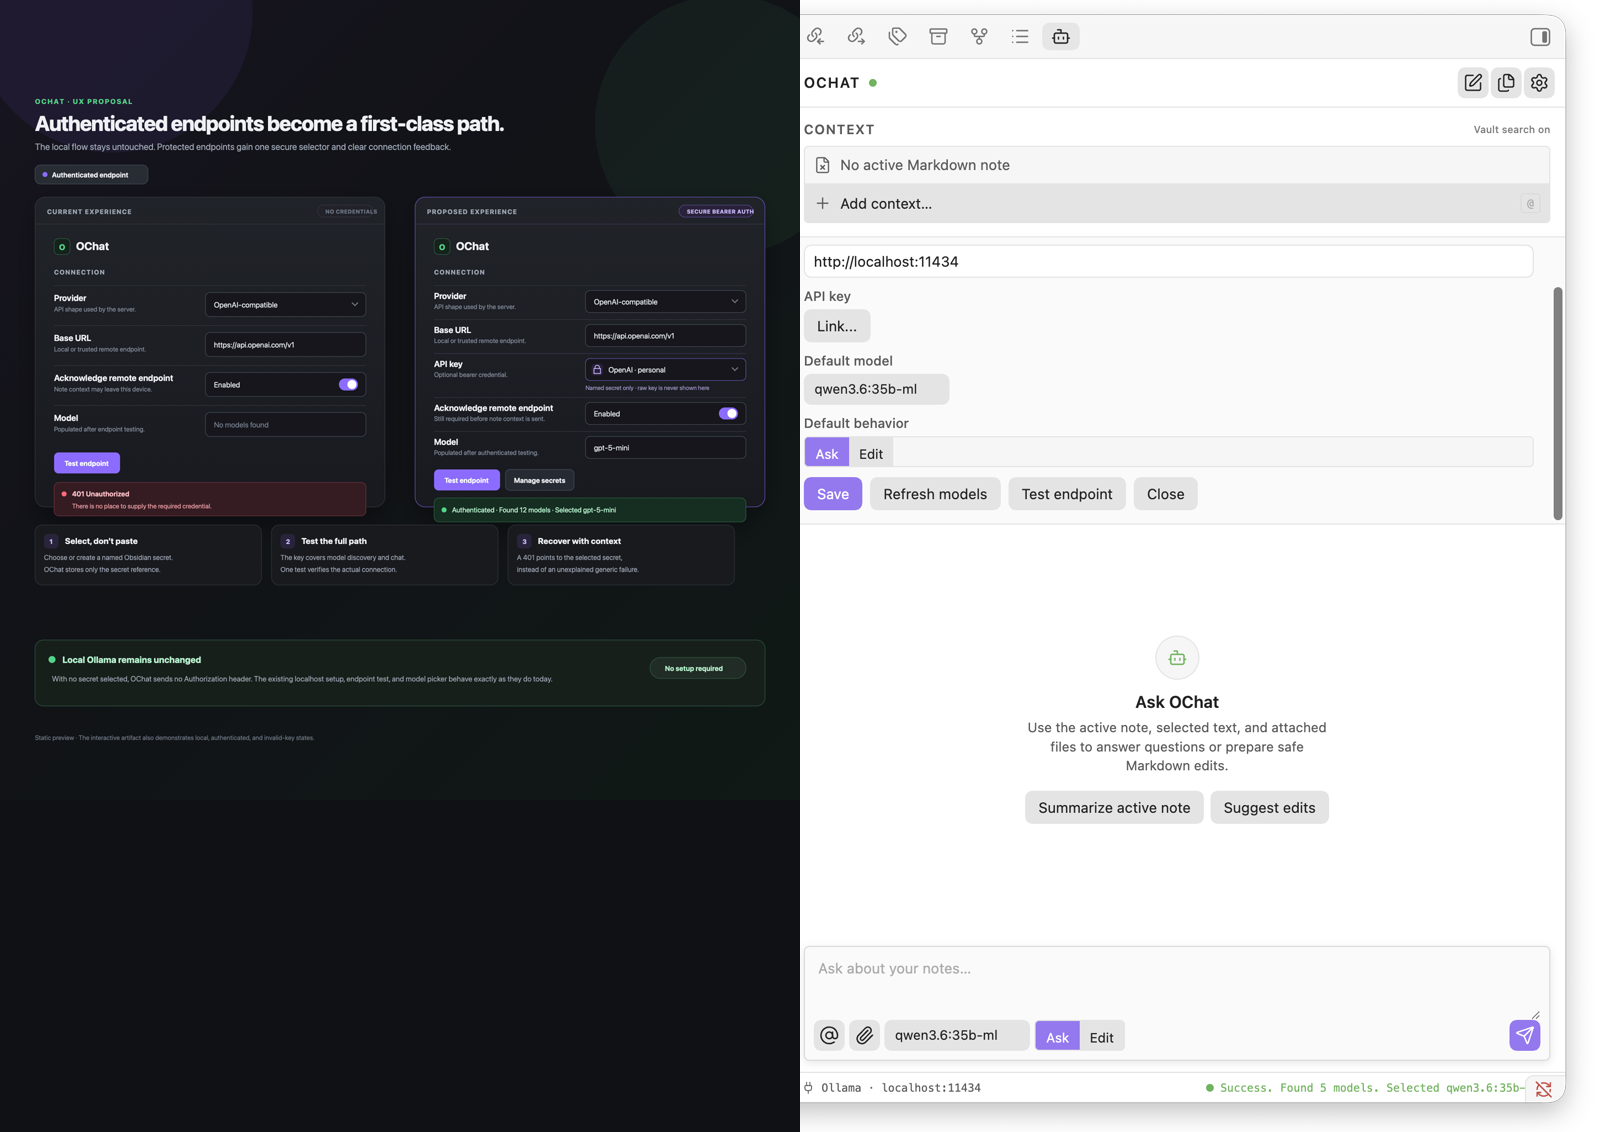
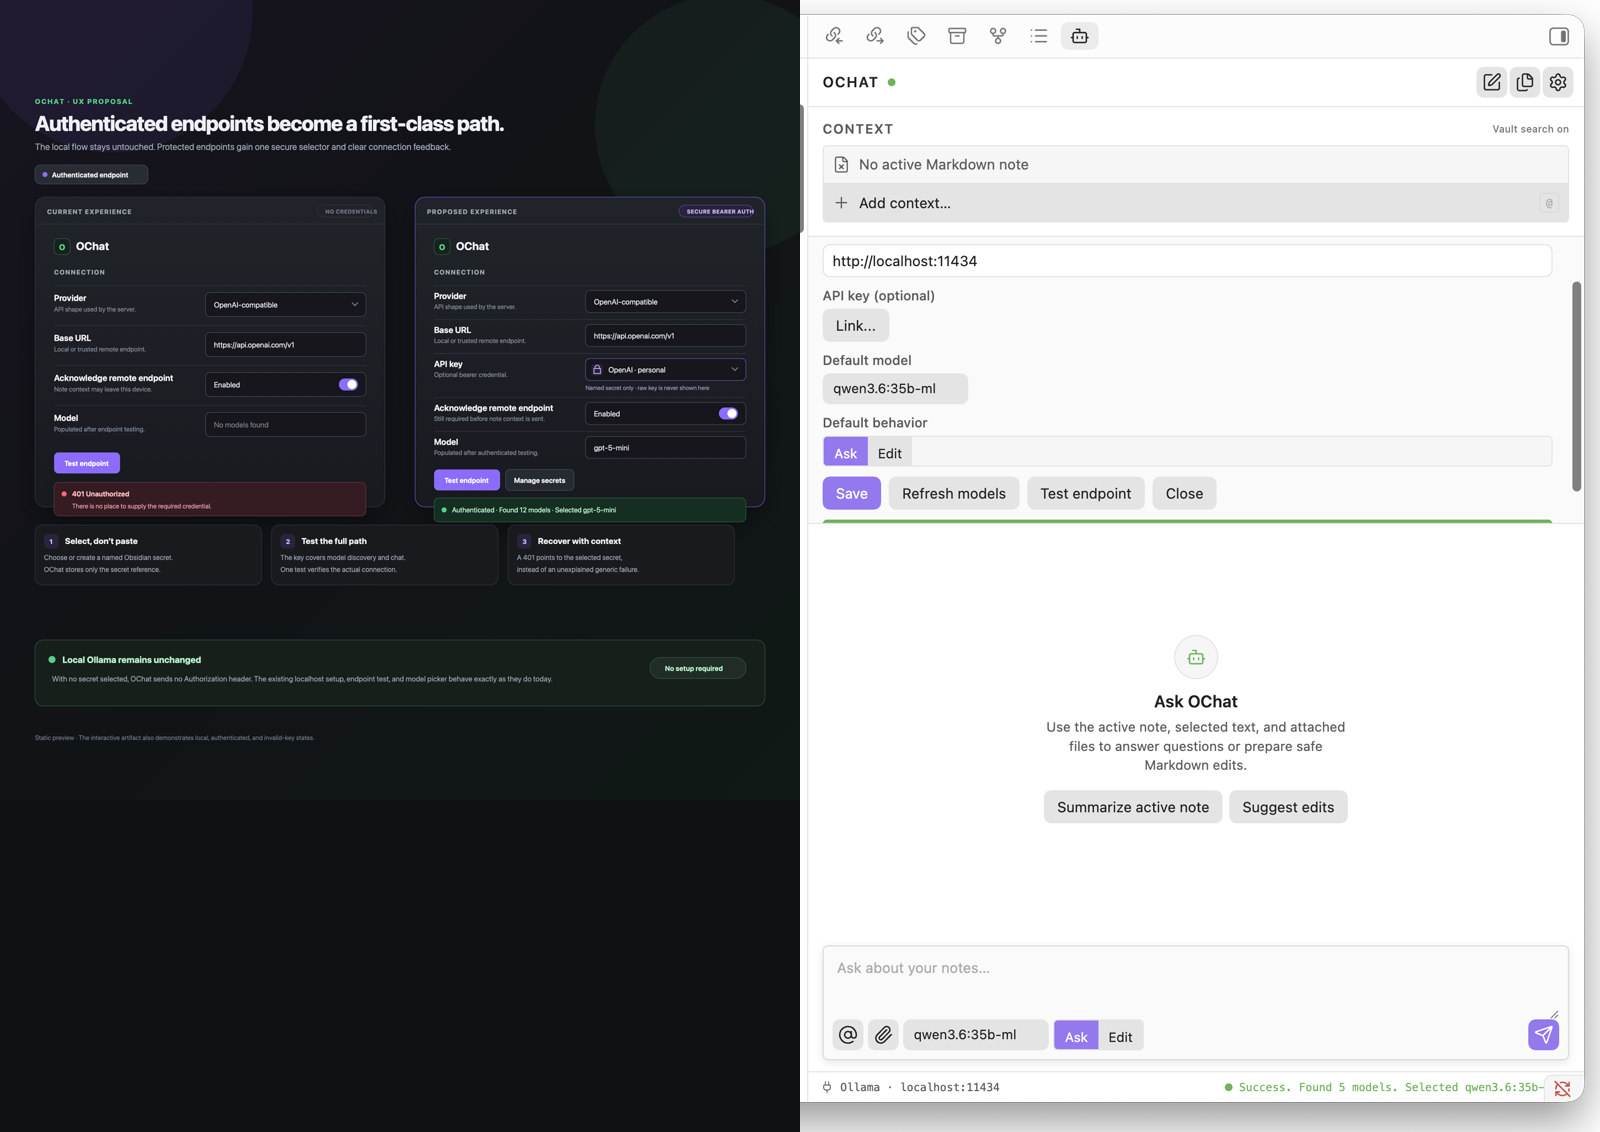
Harden bearer request handling

diff --git a/tests/provider-client.test.ts b/tests/provider-client.test.ts
@@ -1,5 +1,6 @@
 import { describe, expect, test } from 'vitest';
 
+import * as providerCommon from '../src/providers/common';
 import { createModelProvider } from '../src/providers/provider-client';
 import type { RequestDescriptor } from '../src/types';
 
@@ -52,5 +53,112 @@ describe('model provider clients', () => {
 			'http://localhost:1234/v1/chat/completions',
 			'http://localhost:1234/v1/models'
 		]);
+	});
+});
+
+describe('authenticated model provider clients', () => {
+	test('authenticates model discovery and chat for both provider protocols', async () => {
+		const seen: RequestDescriptor[] = [];
+		const execute = (request: RequestDescriptor) =>
+			providerCommon.executeAuthenticatedRequest(
+				request,
+				'provider-key',
+				() => 'test-token',
+				async (authenticatedRequest) => {
+					seen.push(authenticatedRequest);
+					if (authenticatedRequest.url.endsWith('/api/tags')) {
+						return { models: [{ name: 'llama3.2' }] };
+					}
+					if (authenticatedRequest.url.endsWith('/api/chat')) {
+						return { message: { role: 'assistant', content: 'Ollama answer' } };
+					}
+					if (authenticatedRequest.url.endsWith('/models')) {
+						return { data: [{ id: 'compatible-model' }] };
+					}
+					return { choices: [{ message: { role: 'assistant', content: 'Compatible answer' } }] };
+				}
+			);
+
+		const ollama = createModelProvider('ollama', execute);
+		await ollama.listModels('http://localhost:11434');
+		await ollama.chat({
+			baseUrl: 'http://localhost:11434',
+			model: 'llama3.2',
+			messages: [{ role: 'user', content: 'Hello' }],
+			temperature: 0.2
+		});
+
+		const compatible = createModelProvider('openai-compatible', execute);
+		await compatible.listModels('https://api.example.com/v1');
+		await compatible.chat({
+			baseUrl: 'https://api.example.com/v1',
+			model: 'compatible-model',
+			messages: [{ role: 'user', content: 'Hello' }],
+			temperature: 0.2
+		});
+
+		expect(seen.map((request) => request.headers?.Authorization)).toEqual([
+			'Bearer test-token',
+			'Bearer test-token',
+			'Bearer test-token',
+			'Bearer test-token'
+		]);
+	});
+
+	test('keeps the final request unauthenticated when no secret is selected', async () => {
+		const request: RequestDescriptor = {
+			url: 'http://192.168.1.10:11434/api/tags',
+			method: 'GET'
+		};
+
+		const sentRequest = await providerCommon.executeAuthenticatedRequest(
+			request,
+			'',
+			() => null,
+			async (authenticatedRequest) => authenticatedRequest
+		);
+
+		expect(sentRequest).toEqual(request);
+	});
+
+	test('blocks bearer credentials over non-local plaintext HTTP', async () => {
+		let sent = false;
+
+		await expect(
+			providerCommon.executeAuthenticatedRequest(
+				{ url: 'http://192.168.1.10:11434/api/tags', method: 'GET' },
+				'provider-key',
+				() => 'test-token',
+				async () => {
+					sent = true;
+					return {};
+				}
+			)
+		).rejects.toThrow('API keys require HTTPS except for localhost.');
+		expect(sent).toBe(false);
+	});
+
+	test('maps transport 401s using the selected-secret context', async () => {
+		await expect(
+			providerCommon.executeAuthenticatedRequest(
+				{ url: 'https://api.example.com/v1/models', method: 'GET' },
+				'',
+				() => null,
+				async () => {
+					throw Object.assign(new Error('Unauthorized'), { status: 401 });
+				}
+			)
+		).rejects.toThrow('Select an API key in OChat settings');
+
+		await expect(
+			providerCommon.executeAuthenticatedRequest(
+				{ url: 'https://api.example.com/v1/models', method: 'GET' },
+				'provider-key',
+				() => 'wrong-token',
+				async () => {
+					throw Object.assign(new Error('Unauthorized'), { status: 401 });
+				}
+			)
+		).rejects.toThrow('Check or replace the selected API key');
 	});
 });

diff --git a/src/main.ts b/src/main.ts
@@ -9,11 +9,7 @@ import { OCHAT_VIEW_TYPE } from './constants';
 import { buildContextBundle, buildUserMessage } from './context';
 import { applyModelDiscovery, isOnboardingRequired } from './onboarding';
 import { applyPatchProposals } from './patch-applier';
-import {
-	normalizeProviderRequestError,
-	resolveApiKeySecret,
-	withBearerToken
-} from './providers/common';
+import { executeAuthenticatedRequest } from './providers/common';
 import { createModelProvider } from './providers/provider-client';
 import { classifyEndpoint } from './providers/url-policy';
 import { searchVaultSnippets } from './search';
@@ -234,26 +230,23 @@ export default class OChatPlugin extends Plugin {
 	}
 
 	private async executeRequest(request: RequestDescriptor): Promise<unknown> {
-		const hasSelectedSecret = this.settings.apiKeySecretId.trim().length > 0;
+		return executeAuthenticatedRequest<unknown>(
+			request,
+			this.settings.apiKeySecretId,
+			(secretId) => this.app.secretStorage.getSecret(secretId),
+			async (authenticatedRequest) => {
+				const response = await requestUrl({
+					url: authenticatedRequest.url,
+					method: authenticatedRequest.method,
+					headers: authenticatedRequest.headers,
+					contentType: authenticatedRequest.method === 'POST' ? 'application/json' : undefined,
+					body:
+						authenticatedRequest.body === undefined ? undefined : JSON.stringify(authenticatedRequest.body)
+				});
 
-		try {
-			const token = resolveApiKeySecret(this.settings.apiKeySecretId, (secretId) =>
-				this.app.secretStorage.getSecret(secretId)
-			);
-			const authenticatedRequest = withBearerToken(request, token ?? '');
-			const response = await requestUrl({
-				url: authenticatedRequest.url,
-				method: authenticatedRequest.method,
-				headers: authenticatedRequest.headers,
-				contentType: authenticatedRequest.method === 'POST' ? 'application/json' : undefined,
-				body:
-					authenticatedRequest.body === undefined ? undefined : JSON.stringify(authenticatedRequest.body)
-			});
-
-			return response.json;
-		} catch (error) {
-			throw normalizeProviderRequestError(error, hasSelectedSecret);
-		}
+				return response.json as unknown;
+			}
+		);
 	}
 
 	private assertEndpointAllowed(): void {

diff --git a/src/providers/common.ts b/src/providers/common.ts
@@ -1,4 +1,5 @@
 import type { RequestDescriptor } from '../types';
+import { classifyEndpoint } from './url-policy';
 
 export function joinUrl(baseUrl: string, path: string): string {
 	const base = baseUrl.trim().replace(/\/+$/, '');
@@ -68,6 +69,36 @@ export function normalizeProviderRequestError(error: unknown, hasSelectedSecret:
 	}
 
 	return error instanceof Error ? error : new Error(String(error));
+}
+
+export async function executeAuthenticatedRequest<T>(
+	request: RequestDescriptor,
+	secretId: string,
+	readSecret: (id: string) => string | null,
+	transport: (request: RequestDescriptor) => Promise<T>
+): Promise<T> {
+	const hasSelectedSecret = secretId.trim().length > 0;
+
+	try {
+		const token = resolveApiKeySecret(secretId, readSecret);
+		assertBearerTransportAllowed(request.url, token !== null);
+		return await transport(withBearerToken(request, token ?? ''));
+	} catch (error) {
+		throw normalizeProviderRequestError(error, hasSelectedSecret);
+	}
+}
+
+function assertBearerTransportAllowed(url: string, hasToken: boolean): void {
+	if (!hasToken) {
+		return;
+	}
+
+	const protocol = new URL(url).protocol;
+	if (protocol === 'https:' || (protocol === 'http:' && classifyEndpoint(url).kind === 'localhost')) {
+		return;
+	}
+
+	throw new Error('API keys require HTTPS except for localhost. Use an HTTPS Base URL or clear the API key.');
 }
 
 function isUnauthorizedError(error: unknown): boolean {

diff --git a/src/settings.ts b/src/settings.ts
@@ -46,7 +46,7 @@ export class OChatSettingTab extends PluginSettingTab {
 
 		new Setting(containerEl)
 			.setName('API key')
-			.setDesc('Optional. Select an Obsidian secret to send as a bearer token. The secret value is not stored in plugin data.')
+			.setDesc('Optional. Select an Obsidian secret to send as a bearer token. HTTPS is required except for localhost.')
 			.addComponent((container) =>
 				new SecretComponent(this.app, container)
 					.setValue(this.plugin.settings.apiKeySecretId)

diff --git a/design-qa.md b/design-qa.md
@@ -47,7 +47,7 @@ No actionable P0, P1, or P2 differences remain.
 
 The implementation keeps the approved interaction model while using Obsidian's native components: the API-key row opens the host's secret-linking flow, raw credentials are never rendered in OChat, and the existing endpoint test verifies model discovery through the same authenticated request path used by chat. The full Obsidian settings page was also checked after a plugin reload and presents the API-key selector directly after Base URL.
 
-The empty-secret state preserves the existing local flow. A live `http://localhost:11434` test completed successfully without an Authorization header, returned five models, and retained the selected model. At compact sidebar heights, the connection panel scrolls independently; the API-key selector and Test endpoint action remain reachable without moving the composer.
+The empty-secret state preserves the existing local flow. A live `http://localhost:11434` test completed successfully without an Authorization header, returned five models, and retained the selected model. Automated request-boundary coverage confirms that both provider families attach the selected bearer token for discovery and chat, reject credentials over non-local plaintext HTTP, and provide recovery guidance for missing secrets and 401 responses. At compact sidebar heights, the connection panel scrolls independently; the API-key selector and Test endpoint action remain reachable without moving the composer.
 
 No actionable P0, P1, or P2 differences remain for the API-key flow. The visible differences from the concept—light theme, native `Link…` label, and inherited purple accent—come from Obsidian's host theme and native `SecretComponent`, rather than custom credential UI.
 

diff --git a/README.md b/README.md
@@ -25,7 +25,7 @@ OChat sends prompt text, active-note content, selected text, and selected vault 
 
 Localhost and private LAN endpoints are allowed without extra acknowledgement. Public endpoints require an explicit acknowledgement in settings because note and vault context may leave your machine.
 
-For an authenticated endpoint, create or select an Obsidian secret in OChat's **API key** setting. OChat stores only the secret's ID in plugin settings and adds the secret value to requests as an `Authorization: Bearer …` header. Leave the setting empty for local endpoints that do not require authentication.
+For an authenticated endpoint, create or select an Obsidian secret in OChat's **API key** setting. OChat stores only the secret's ID in plugin settings and adds the secret value to requests as an `Authorization: Bearer …` header. To protect the credential in transit, API keys require HTTPS except when the endpoint is on localhost. Leave the setting empty for local endpoints that do not require authentication.
 
 OChat does not include telemetry, ads, remote assets, or an auto-update mechanism.
 
